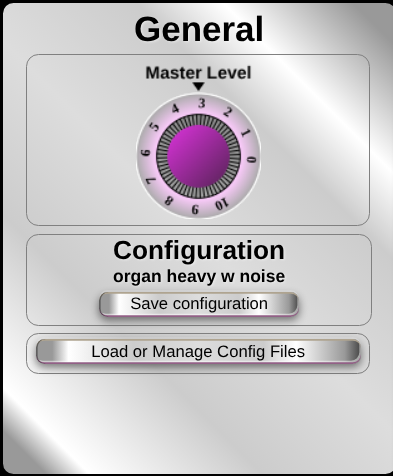
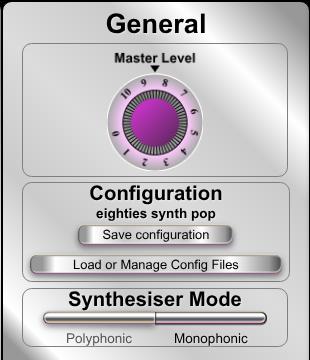
* Update docs.

Changed region(s): [[0.0, 0.0, 1.0, 1.0]]

diff --git a/README.md b/README.md
@@ -213,8 +213,27 @@ the point of oscillating.
 
 
 #### Portamento
-This function is limited at the moment, and just gives a glide between the previous note and the next. Set to zero, there is no portamento.
-The drop down below it is from an earlier version and currently does nothing.
+Portamento is the effect where keys pressed cause the note to glide from the notes from the previous 
+key(s) pressed to those for the current key(s). The simplest portamento is where the synthesiser mode is 
+monophonic. In this case the single note glides between the frequencies set by the keys pressed. 
+
+In polyphonic mode, it's a bit more complicated, where there can be several gliding notes determined by
+the strategy used. 
+
+The glide speed is set by the Glide control. The time between any two notes will be the same, regardless of how far apart they are.
+The glide will move at a musically uniform rate (i.e. constant time per octave).
+
+The settings, selected from the drop down, are detailed in the table below
+
+| Portamento Mode              | Effect                                                                                                                                                                                                                                                |
+|------------------------------|-------------------------------------------------------------------------------------------------------------------------------------------------------------------------------------------------------------------------------------------------------|
+| Off                          | No portamento, notes are played without any preceding glide                                                                                                                                                                                           |
+| Chord (Polyphonic mode only) | Notes glide from their corresponding note in the previous chord. If there is no corresponding note in the previous chord, it will start from a note with the same musical interval from neighbouring notes in the previous chord as in the new choed. |
+| Glide (Monophonic only)      | The single note will glide from the previous single note.                                                                                                                                                                                             |
+| +12                          | Each note glides down from an octave up.                                                                                                                                                                                                              |
+| +24                          | Each note glides down from two octaves up.                                                                                                                                                                                                            |
+| -12                          | Each note glides up from an octave down.                                                                                                                                                                                                              |
+| -24                          | Each note glides up from two octaves down.                                                                                                                                                                                                            |
 
 #### Filter Morph Mode
 Five buttons which set the filter response in steps between low pass and high pass.
@@ -337,6 +356,7 @@ stages which can be between 1 and 61,
 * Load a saved configuration to the synthesiser.
 * Rename a configuration.
 * Delete a configuration.
+* Switch synthesiser mode between monophonic and polyphonic .
 
 ###### Save configuration
 
